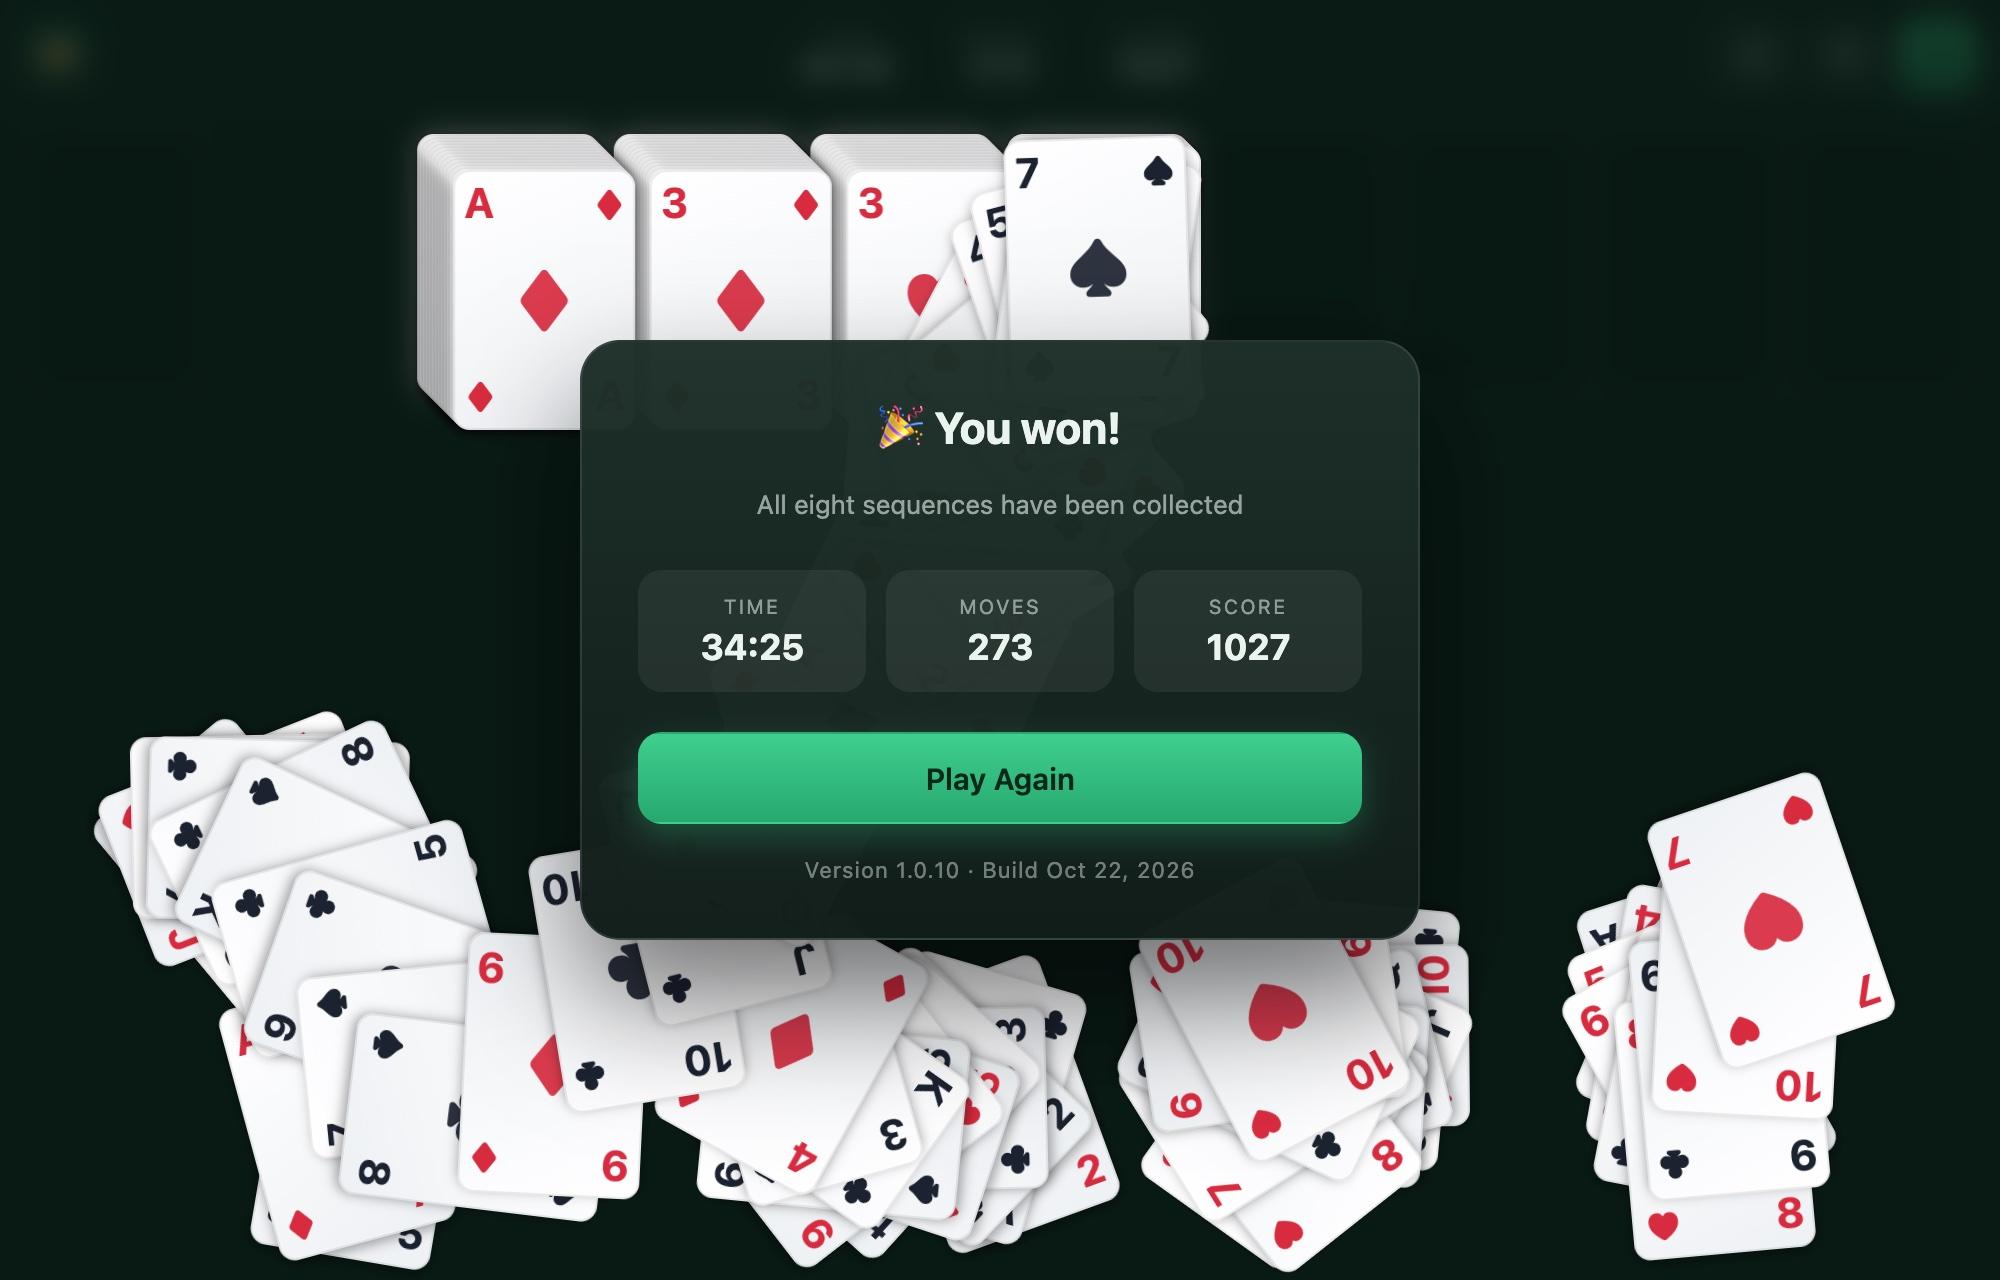
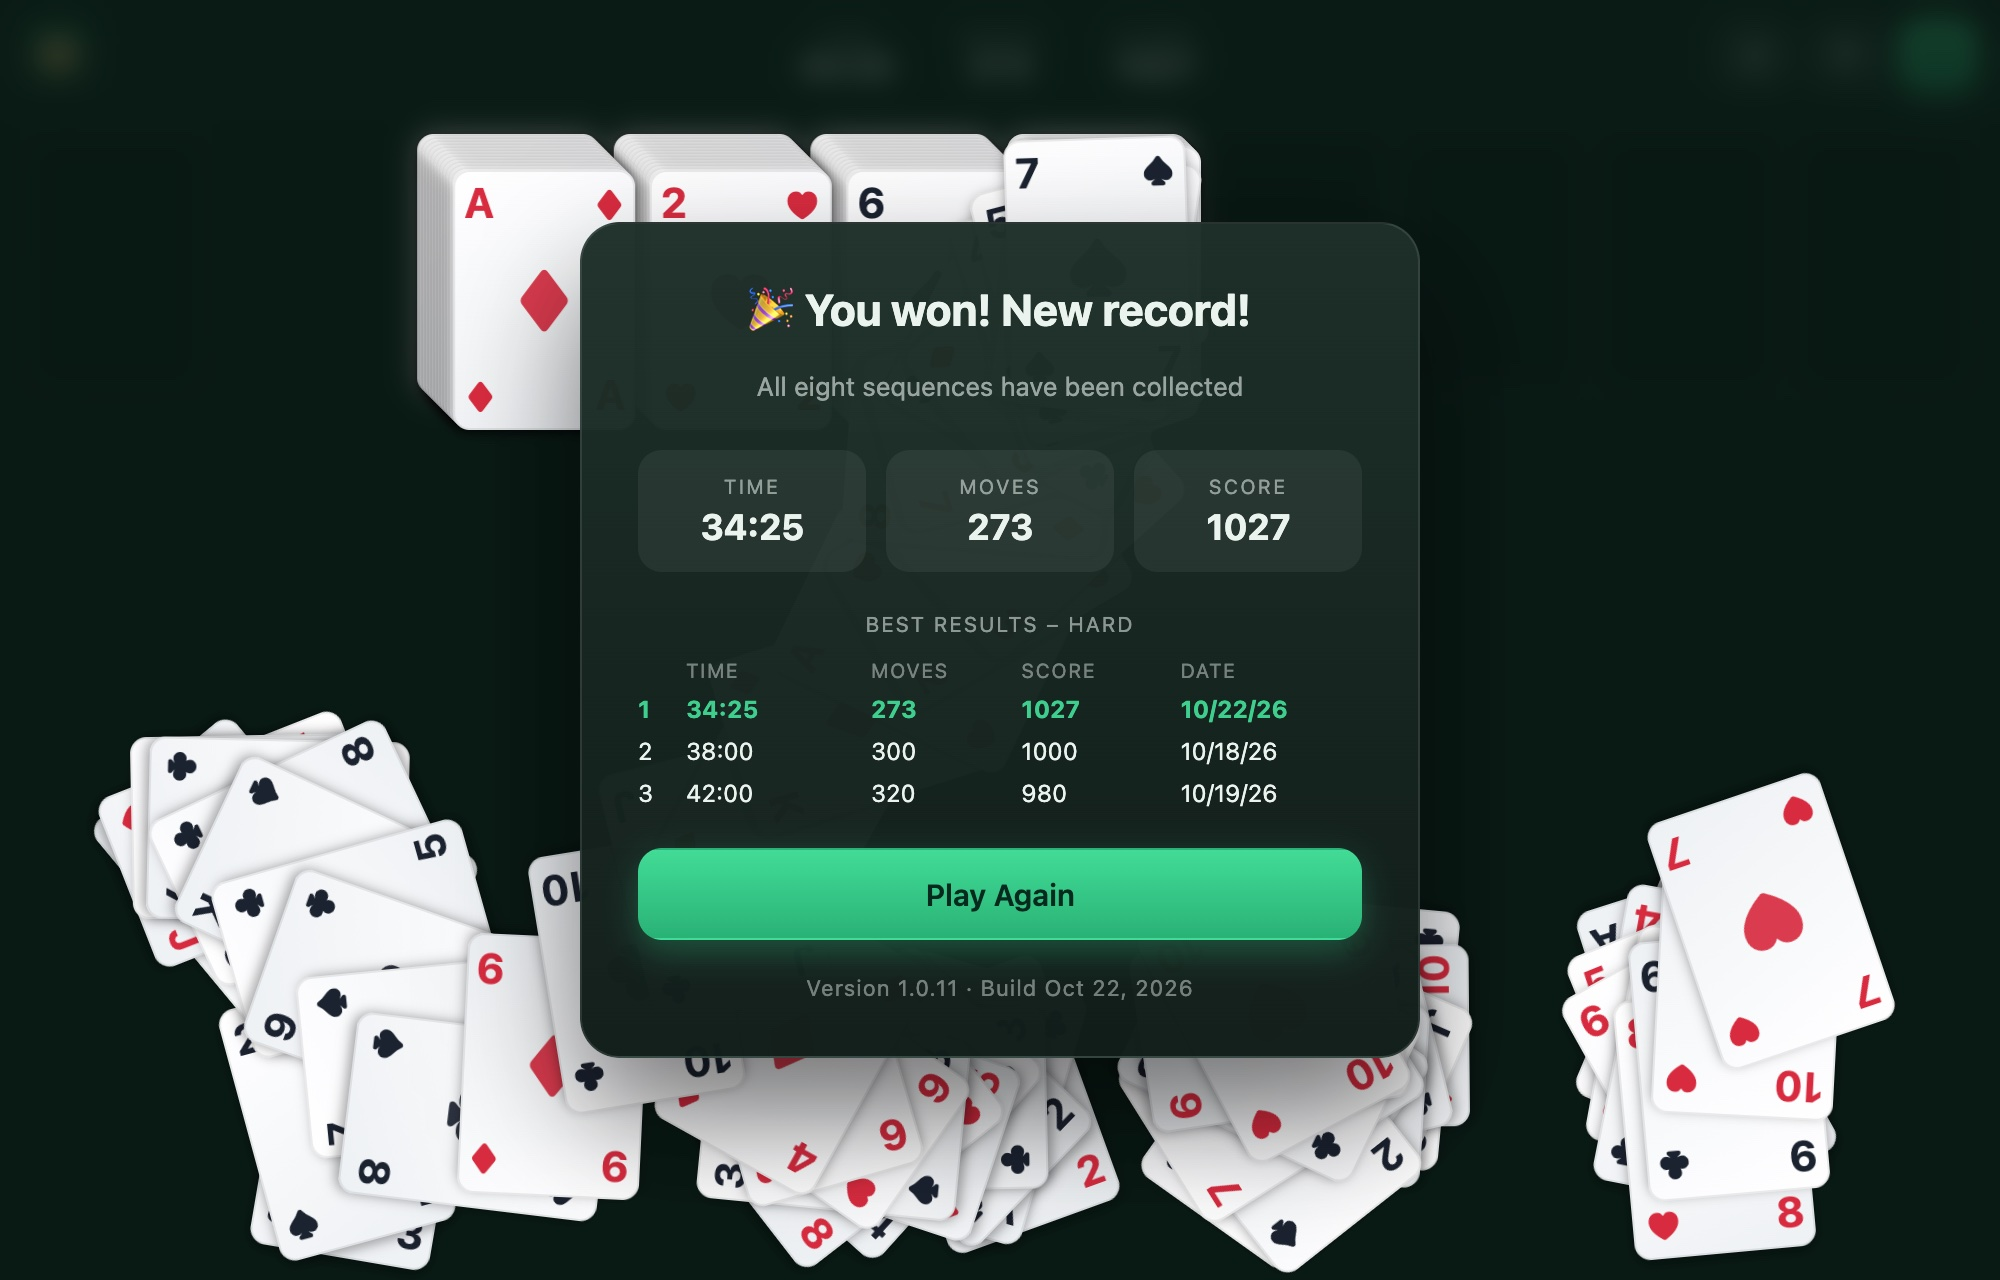
Release 1.0.11: local top-5 scoring board
- record finished games per difficulty (time, moves, score, date) in
  localStorage and keep the best five
- win dialog lists the results for the current difficulty with a score
  column and a centred heading that names the difficulty, and highlights
  the new entry
- a new record is announced in the title ("You won! New record!"), other
  top-5 places show "Place N"
- compact dialogs only show the top three rows so the win screen still
  fits short landscape viewports
- README: high scores section
- version 1.0.11, service worker cache bumped to spider-sunrise-v13

diff --git a/i18n.js b/i18n.js
@@ -34,6 +34,10 @@
     "win.again": "Play Again",
     "app.footer": "Version {version} · Build {build}",
     "app.name": "Spider Solitaire: Sunrise",
+    "score.title": "Best results",
+    "score.record": "New record!",
+    "score.place": "Place {place}",
+    "score.date": "Date",
     "info.text": "The cards must be sorted in the ten tableau columns. The goal is to build eight complete sequences, each running from King down to Ace. A complete King-to-Ace sequence in a single suit is moved automatically to one of the eight foundation frames at the top. The remaining cards can be dealt in batches from the top-left corner.",
     "info.assist": "Dim cards that cannot be moved",
     "info.close": "Close",
@@ -74,6 +78,10 @@
     "win.again": "Nochmal spielen",
     "app.footer": "Version {version} · Build {build}",
     "app.name": "Spider Solitaire: Sunrise",
+    "score.title": "Beste Ergebnisse",
+    "score.record": "Neuer Rekord!",
+    "score.place": "Platz {place}",
+    "score.date": "Datum",
     "info.text": "Die Karten müssen in den zehn Tableau-Spalten geordnet werden. Ziel ist es, acht vollständige Sequenzen zu bilden, jeweils vom König bis zum Ass. Eine vollständige K-A-Sequenz in einer einzigen Farbe wird automatisch in einen der acht Ablagerahmen oben verschoben. Die restlichen Karten können stapelweise aus der oberen linken Ecke entnommen werden.",
     "info.assist": "Nicht verschiebbare Karten abdunkeln",
     "info.close": "Schließen",
@@ -114,6 +122,10 @@
     "win.again": "Rejouer",
     "app.footer": "Version {version} · Compilation {build}",
     "app.name": "Spider Solitaire: Sunrise",
+    "score.title": "Meilleurs résultats",
+    "score.record": "Nouveau record !",
+    "score.place": "Place {place}",
+    "score.date": "Date",
     "info.text": "Les cartes doivent être rangées dans les dix colonnes du tableau. Le but est de former huit séquences complètes, chacune allant du Roi à l'As. Une séquence complète du Roi à l'As dans une seule couleur est déplacée automatiquement vers l'un des huit emplacements de fondation en haut. Les cartes restantes peuvent être distribuées par paquets depuis le coin supérieur gauche.",
     "info.assist": "Assombrir les cartes non déplaçables",
     "info.close": "Fermer",
@@ -154,6 +166,10 @@
     "win.again": "Jugar de nuevo",
     "app.footer": "Versión {version} · Compilación {build}",
     "app.name": "Spider Solitaire: Sunrise",
+    "score.title": "Mejores resultados",
+    "score.record": "¡Nuevo récord!",
+    "score.place": "Puesto {place}",
+    "score.date": "Fecha",
     "info.text": "Las cartas deben ordenarse en las diez columnas del tablero. El objetivo es formar ocho secuencias completas, cada una desde el Rey hasta el As. Una secuencia completa de Rey a As en un solo palo se mueve automáticamente a uno de los ocho marcos de fundación de arriba. Las cartas restantes se pueden repartir por grupos desde la esquina superior izquierda.",
     "info.assist": "Atenuar las cartas que no se pueden mover",
     "info.close": "Cerrar",
@@ -194,6 +210,10 @@
     "win.again": "Gioca ancora",
     "app.footer": "Versione {version} · Build {build}",
     "app.name": "Spider Solitaire: Sunrise",
+    "score.title": "Migliori risultati",
+    "score.record": "Nuovo record!",
+    "score.place": "Posizione {place}",
+    "score.date": "Data",
     "info.text": "Le carte devono essere ordinate nelle dieci colonne del tableau. L'obiettivo è formare otto sequenze complete, ciascuna dal Re all'Asso. Una sequenza completa dal Re all'Asso in un solo seme viene spostata automaticamente in uno degli otto riquadri di fondazione in alto. Le carte rimanenti possono essere distribuite a gruppi dall'angolo in alto a sinistra.",
     "info.assist": "Attenua le carte che non si possono spostare",
     "info.close": "Chiudi",
@@ -234,6 +254,10 @@
     "win.again": "Jogar de novo",
     "app.footer": "Versão {version} · Compilação {build}",
     "app.name": "Spider Solitaire: Sunrise",
+    "score.title": "Melhores resultados",
+    "score.record": "Novo recorde!",
+    "score.place": "Posição {place}",
+    "score.date": "Data",
     "info.text": "As cartas devem ser organizadas nas dez colunas do tableau. O objetivo é formar oito sequências completas, cada uma do Rei ao Ás. Uma sequência completa de Rei a Ás em um único naipe é movida automaticamente para um dos oito quadros de fundação no topo. As cartas restantes podem ser distribuídas em grupos a partir do canto superior esquerdo.",
     "info.assist": "Escurecer as cartas que não podem ser movidas",
     "info.close": "Fechar",
@@ -274,6 +298,10 @@
     "win.again": "Opnieuw spelen",
     "app.footer": "Versie {version} · Build {build}",
     "app.name": "Spider Solitaire: Sunrise",
+    "score.title": "Beste resultaten",
+    "score.record": "Nieuw record!",
+    "score.place": "Plaats {place}",
+    "score.date": "Datum",
     "info.text": "De kaarten moeten in de tien tableau-kolommen worden gerangschikt. Het doel is om acht volledige reeksen te vormen, telkens van Heer tot Aas. Een volledige reeks van Heer tot Aas in één kleur wordt automatisch naar een van de acht funderingsvakken boven verplaatst. De overige kaarten kunnen in groepjes uit de linkerbovenhoek worden gedeeld.",
     "info.assist": "Niet-verplaatsbare kaarten donkerder maken",
     "info.close": "Sluiten",

diff --git a/script.js b/script.js
@@ -50,7 +50,9 @@
   let collectToken = 0;
   let resizeRaf = 0;
   let saveTimer = null;
+  let winResult = null;
   const SAVE_KEY = "spider-sunrise-game";
+  const SCORES_KEY = "spider-sunrise-scores";
   try {
     assist = localStorage.getItem("spider-sunrise-assist") === "1";
   } catch (err) {
@@ -130,6 +132,7 @@
     uid = 1;
     history = [];
     collectToken++;
+    winResult = null;
     autoPlaying = false;
     autoFinishTried = false;
     autoPlan = null;
@@ -262,6 +265,120 @@
     } catch (err) {}
   }
 
+  function readScores() {
+    const out = { 1: [], 2: [], 4: [] };
+    let raw;
+    try {
+      raw = localStorage.getItem(SCORES_KEY);
+    } catch (err) {
+      return out;
+    }
+    if (!raw) return out;
+    let data;
+    try {
+      data = JSON.parse(raw);
+    } catch (err) {
+      return out;
+    }
+    if (!data || data.v !== 1) return out;
+    for (const key of [1, 2, 4]) {
+      const list = Array.isArray(data[key]) ? data[key] : [];
+      out[key] = list
+        .filter(
+          (e) =>
+            e &&
+            typeof e.t === "number" &&
+            typeof e.m === "number" &&
+            typeof e.s === "number"
+        )
+        .map((e) => ({ t: e.t, m: e.m, s: e.s, d: typeof e.d === "string" ? e.d : "" }))
+        .slice(0, 5);
+    }
+    return out;
+  }
+
+  function writeScores(data) {
+    try {
+      localStorage.setItem(
+        SCORES_KEY,
+        JSON.stringify({ v: 1, 1: data[1], 2: data[2], 4: data[4] })
+      );
+    } catch (err) {}
+  }
+
+  function recordScore() {
+    const key = difficulty === 2 || difficulty === 4 ? difficulty : 1;
+    const entry = {
+      t: elapsed,
+      m: state.moves,
+      s: state.score,
+      d: new Date().toISOString().slice(0, 10),
+    };
+    const data = readScores();
+    const list = data[key].concat(entry).sort((a, b) => b.s - a.s || a.t - b.t);
+    const rank = list.indexOf(entry) + 1;
+    data[key] = list.slice(0, 5);
+    writeScores(data);
+    return { list: data[key], rank: rank <= 5 ? rank : 0, current: entry };
+  }
+
+  function formatScoreDate(iso) {
+    if (!iso) return "";
+    const d = new Date(iso + "T00:00:00");
+    if (isNaN(d.getTime())) return iso;
+    try {
+      return new Intl.DateTimeFormat(i18n.language, { dateStyle: "short" }).format(d);
+    } catch (err) {
+      return iso;
+    }
+  }
+
+  function difficultyLabel(level) {
+    return t(level === 2 ? "menu.medium" : level === 4 ? "menu.hard" : "menu.easy");
+  }
+
+  function scoreListHTML(result) {
+    if (!result || !result.list.length) return "";
+    const head =
+      '<div class="score-row score-head"><span></span><span>' +
+      t("stats.time") +
+      "</span><span>" +
+      t("stats.moves") +
+      "</span><span>" +
+      t("stats.score") +
+      "</span><span>" +
+      t("score.date") +
+      "</span></div>";
+    const rows = result.list
+      .map(
+        (e, i) =>
+          '<div class="score-row' +
+          (e === result.current ? " current" : "") +
+          '"><span>' +
+          (i + 1) +
+          "</span><span>" +
+          formatTime(e.t) +
+          "</span><span>" +
+          e.m +
+          "</span><span>" +
+          e.s +
+          "</span><span>" +
+          formatScoreDate(e.d) +
+          "</span></div>"
+      )
+      .join("");
+    return (
+      '<div class="scores"><div class="scores-title">' +
+      t("score.title") +
+      " – " +
+      difficultyLabel(difficulty) +
+      "</div>" +
+      head +
+      rows +
+      "</div>"
+    );
+  }
+
   function readSave() {
     let raw;
     try {
@@ -313,6 +430,7 @@
     difficulty = d.d === 2 || d.d === 4 ? d.d : 1;
     history = [];
     collectToken++;
+    winResult = null;
     dealing = false;
     autoPlaying = false;
     autoFinishTried = false;
@@ -1658,16 +1776,25 @@
     stopTimer();
     clearSave();
     const ver = appVersionLine();
+    if (!winResult) winResult = recordScore();
+    const isRecord = winResult.rank === 1;
+    const winTitle = isRecord ? t("win.title") + " " + t("score.record") : t("win.title");
+    const recordLine =
+      winResult.rank > 1
+        ? '<div class="record">' + t("score.place", { place: winResult.rank }) + "</div>"
+        : "";
     overlay.innerHTML =
       '<div class="win-cards"></div>' +
       '<div class="modal">' +
-      "<h2>" + t("win.title") + "</h2>" +
+      "<h2>" + winTitle + "</h2>" +
       '<p class="sub">' + t("win.subtitle") + "</p>" +
       '<div class="result">' +
       "<div><span>" + t("stats.time") + "</span><strong>" + formatTime(elapsed) + "</strong></div>" +
       "<div><span>" + t("stats.moves") + "</span><strong>" + state.moves + "</strong></div>" +
       "<div><span>" + t("stats.score") + "</span><strong>" + state.score + "</strong></div>" +
       "</div>" +
+      recordLine +
+      scoreListHTML(winResult) +
       '<button class="btn primary big" id="btn-again">' + t("win.again") + "</button>" +
       (ver ? '<div class="app-version">' + ver + "</div>" : "") +
       "</div>";

diff --git a/style.css b/style.css
@@ -660,6 +660,47 @@ body.menu-open #board {
   box-shadow: 0 0 0 2px rgba(62, 207, 142, 0.5);
 }
 
+.record {
+  color: var(--accent);
+  font-weight: 700;
+  font-size: 14px;
+  margin-bottom: 10px;
+}
+
+.scores {
+  margin-bottom: 18px;
+  text-align: left;
+}
+
+.scores-title {
+  font-size: 10.5px;
+  letter-spacing: 0.08em;
+  text-transform: uppercase;
+  opacity: 0.55;
+  margin-bottom: 8px;
+  text-align: center;
+}
+
+.score-row {
+  display: grid;
+  grid-template-columns: 18px 1fr 0.8fr 0.85fr 1.05fr;
+  gap: 6px;
+  font-size: 12px;
+  padding: 3px 0;
+}
+
+.score-head {
+  font-size: 10px;
+  letter-spacing: 0.06em;
+  text-transform: uppercase;
+  opacity: 0.45;
+}
+
+.score-row.current {
+  color: var(--accent);
+  font-weight: 700;
+}
+
 .difficulty {
   display: grid;
   gap: 10px;
@@ -879,6 +920,33 @@ body.menu-open #board {
   .app-version {
     margin-top: 8px;
     font-size: 10px;
+  }
+
+  .record {
+    font-size: 12px;
+    margin-bottom: 6px;
+  }
+
+  .scores {
+    margin-bottom: 10px;
+  }
+
+  .scores-title {
+    font-size: 9.5px;
+    margin-bottom: 4px;
+  }
+
+  .score-row {
+    font-size: 11px;
+    padding: 1px 0;
+  }
+
+  .score-head {
+    font-size: 9px;
+  }
+
+  .scores .score-row:nth-child(n + 6) {
+    display: none;
   }
 
   .result {

diff --git a/index.html b/index.html
@@ -10,7 +10,7 @@
   <meta name="apple-mobile-web-app-capable" content="yes" />
   <meta name="apple-mobile-web-app-status-bar-style" content="black-translucent" />
   <meta name="apple-mobile-web-app-title" content="Spider Sunrise" />
-  <link rel="manifest" href="manifest.json?v=1.0.10" />
+  <link rel="manifest" href="manifest.json?v=1.0.11" />
   <link rel="icon" type="image/svg+xml" href="icons/favicon.svg" />
   <link rel="icon" type="image/png" sizes="192x192" href="icons/favicon-192.png" />
   <link rel="icon" type="image/png" sizes="32x32" href="icons/favicon-32.png" />

diff --git a/sw.js b/sw.js
@@ -1,4 +1,4 @@
-const CACHE = "spider-sunrise-v12";
+const CACHE = "spider-sunrise-v13";
 
 const ASSETS = [
   "./",

diff --git a/version.js b/version.js
@@ -1,4 +1,4 @@
 window.APP_INFO = {
-  version: "1.0.10",
+  version: "1.0.11",
   build: "2026-10-22",
 };

diff --git a/README.md b/README.md
@@ -1,10 +1,12 @@
-# Spider Solitaire: Sunrise
+<p align="center"><img src="icons/favicon.svg" width="110" alt="Spider Solitaire: Sunrise logo"></p>
 
-A classic Spider Solitaire built as a pure HTML/CSS/Vanilla-JS app — no build step, no dependencies. Just open `index.html` in a browser.
+<h1 align="center">Spider Solitaire: Sunrise</h1>
 
-The UI is multilingual and automatically picks your browser language. English is the main/fallback language; German, French, Spanish, Italian, Portuguese and Dutch are also included.
+<p align="center">A classic Spider Solitaire built as a pure HTML/CSS/Vanilla-JS app — no build step, no dependencies. Just open `index.html` in a browser.</p>
 
-## Screenshots
+<p align="center">The cards must be sorted in the ten tableau columns. The goal is to build eight complete sequences, each running from King down to Ace. A complete King-to-Ace sequence in a single suit is moved automatically to one of the eight foundation frames at the top. The remaining cards can be dealt in batches from the top-left corner.</p>
+
+<p align="center">The UI is multilingual and automatically picks your browser language. English is the main/fallback language; German, French, Spanish, Italian, Portuguese and Dutch are also included.</p>
 
 | Start menu | Game in progress |
 | --- | --- |
@@ -76,6 +78,14 @@ An optional game aid can dim the cards you cannot move. Open the info dialog by 
 
 - A card can only be lifted together with the cards below it if they form a descending run in the same suit. Cards in the tableau that cannot be lifted this way are darkened slightly.
 - The setting is stored in the browser and applies to current and future games. It is off by default.
+
+## High scores
+
+The app keeps a local top-5 list per difficulty (time, moves, score and date of finished games) in your browser — nothing is uploaded.
+
+The win dialog shows the list for the difficulty you just finished, highlights your new entry and tells you when you set a new record.
+
+Clearing your browser data also clears the list.
 
 ## Languages
 
